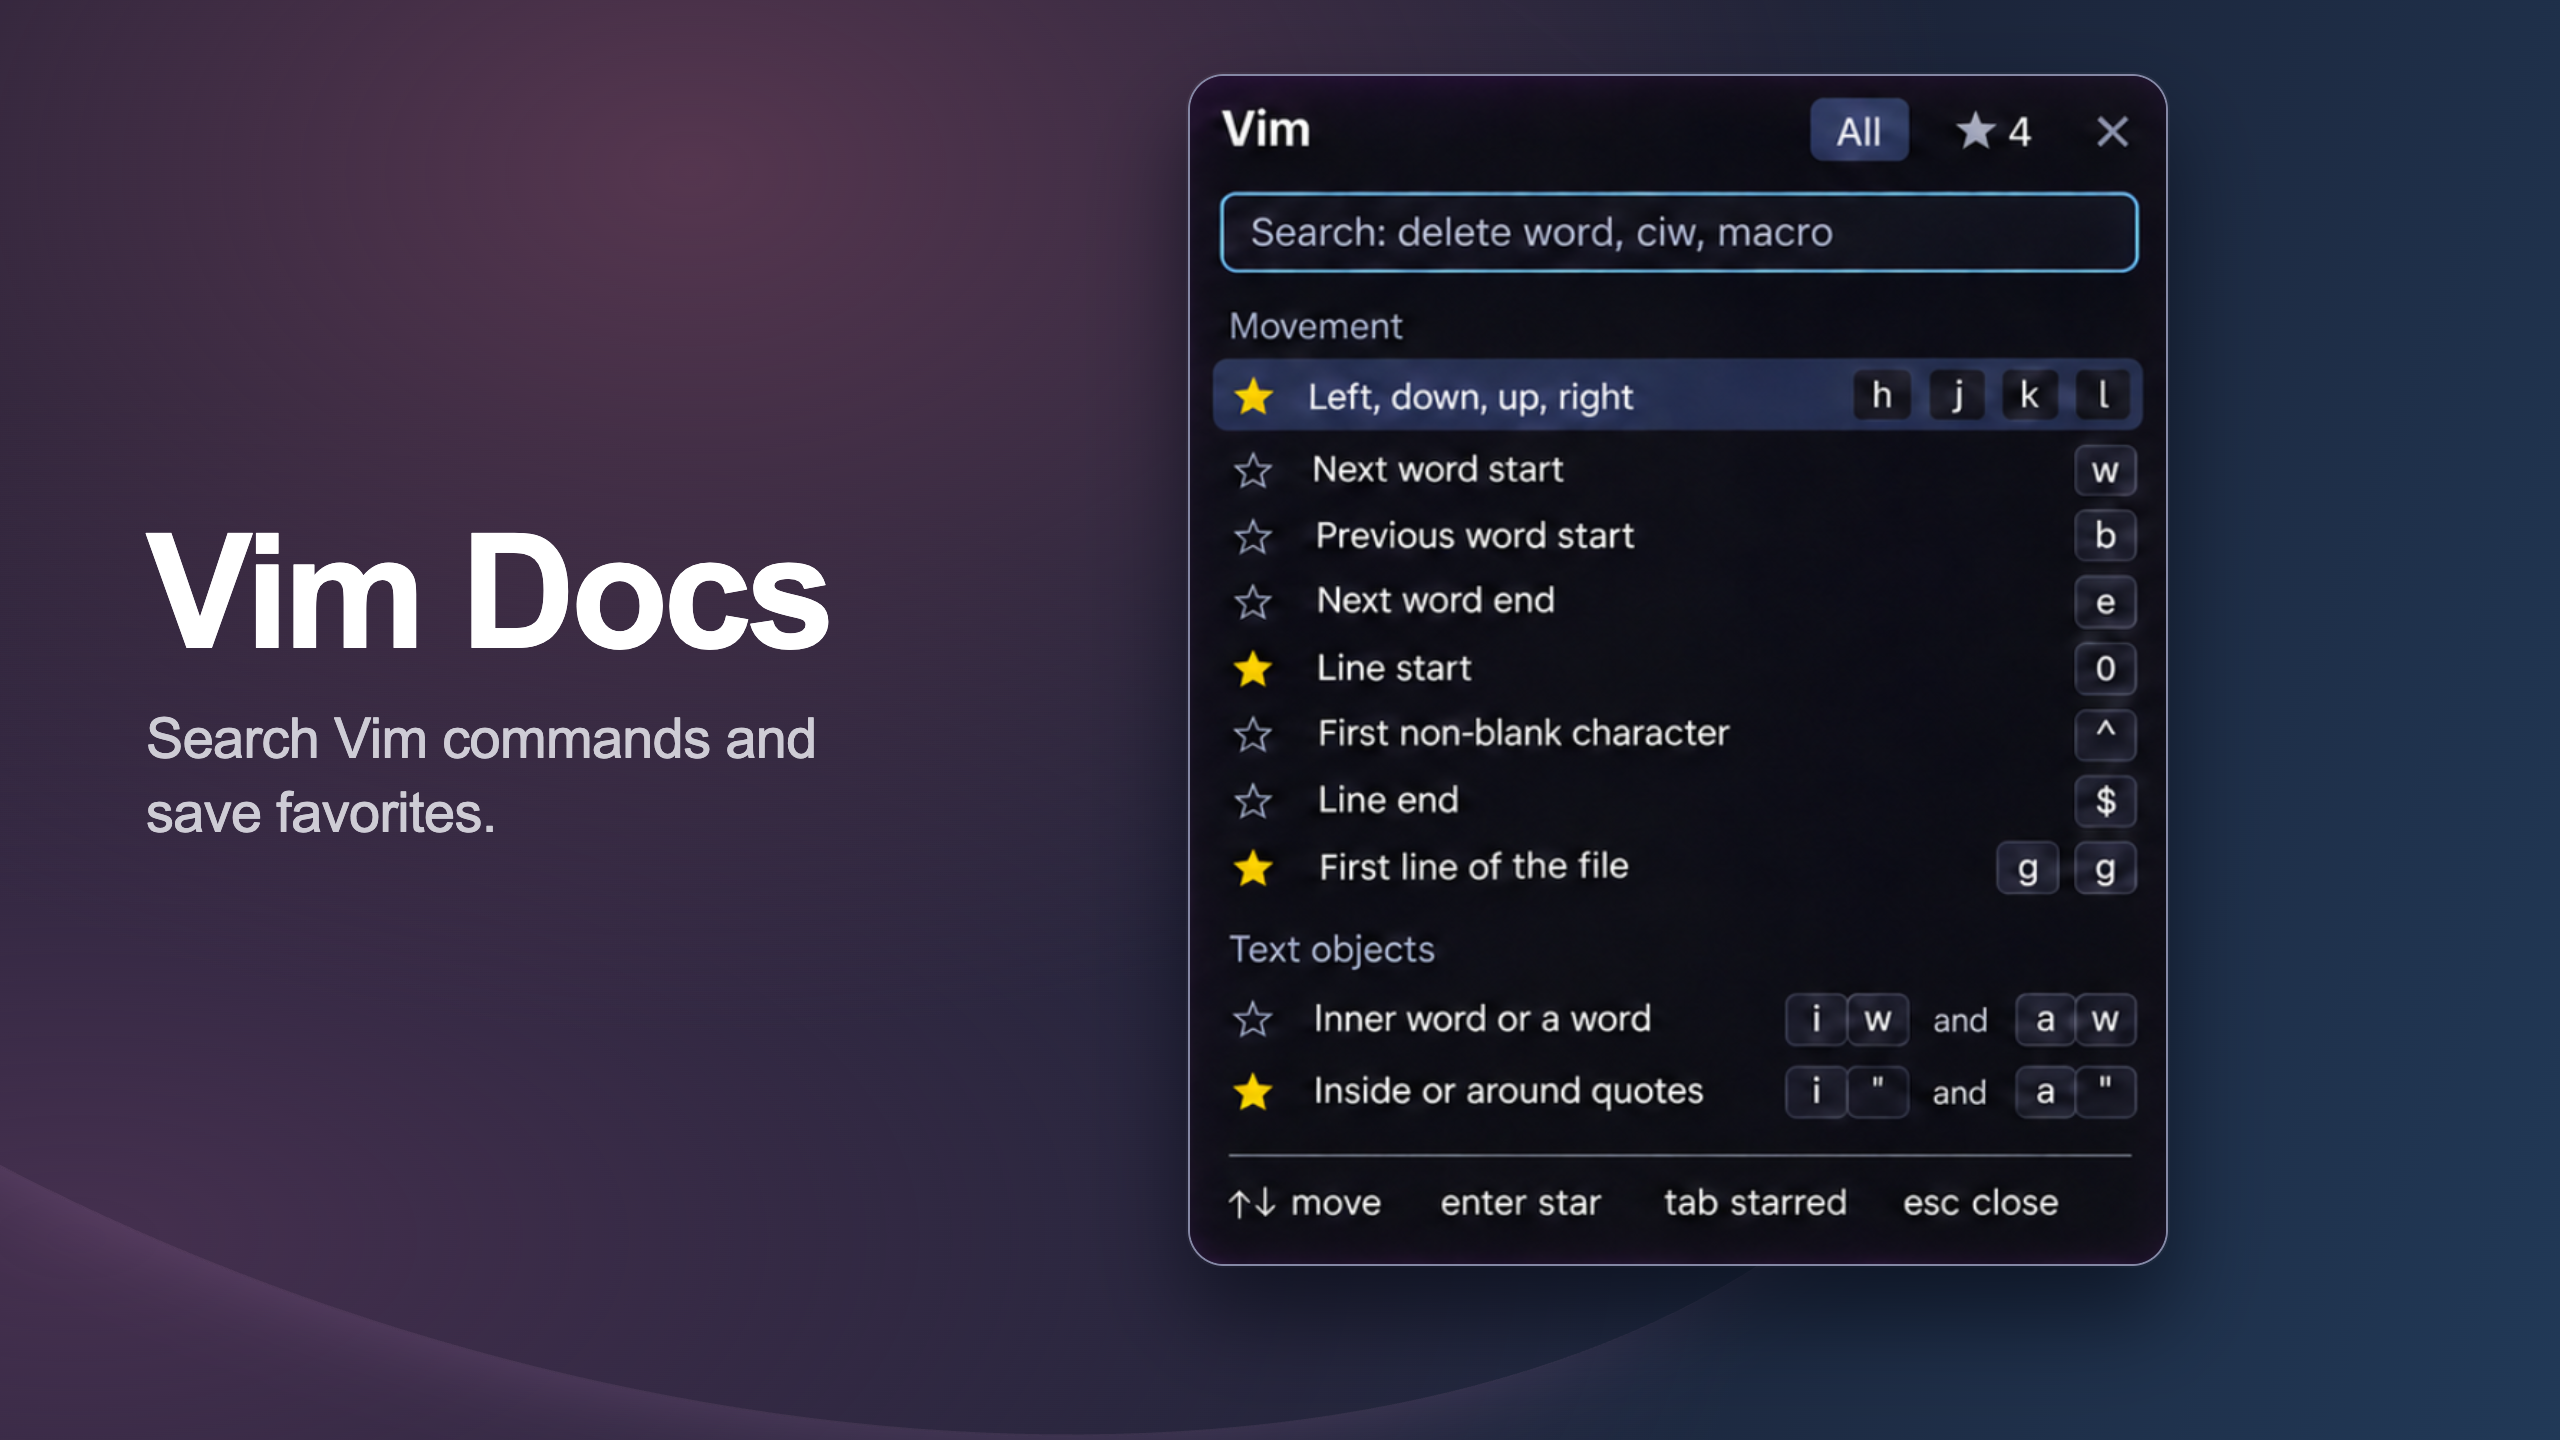
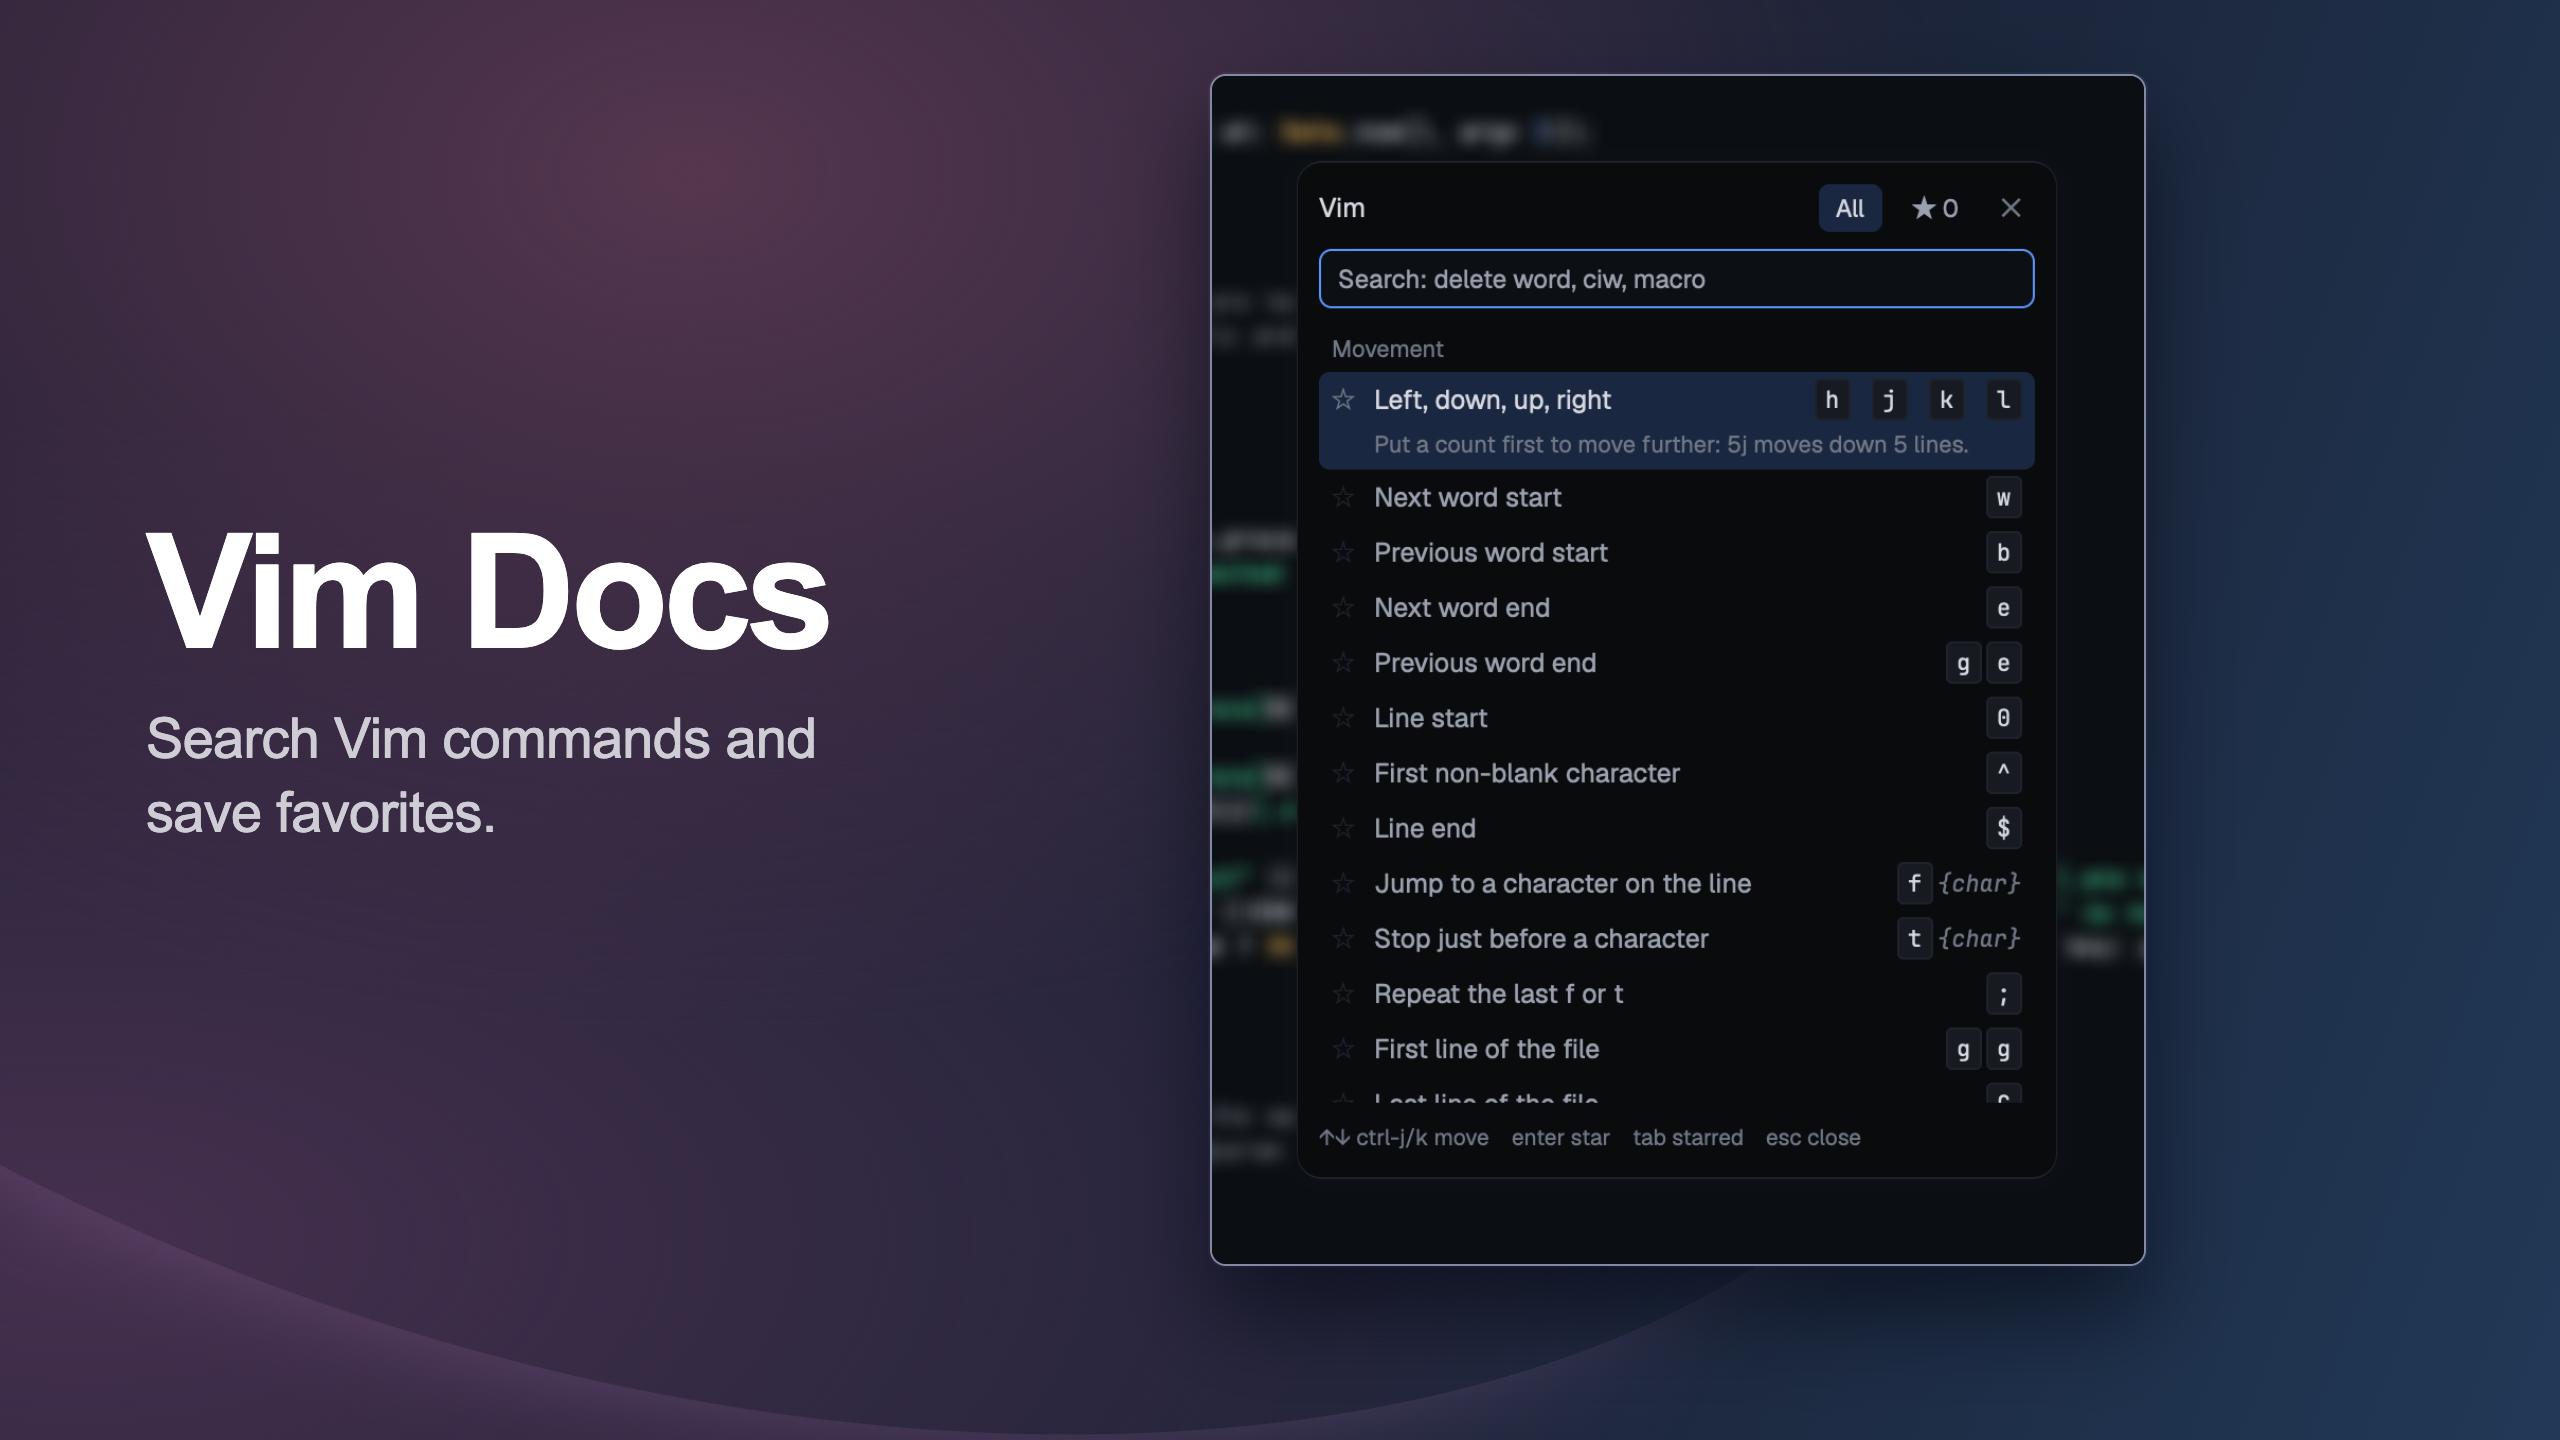
Use supplied Vim Docs screenshot with blurred surroundings

Changed region(s): [[0.4375, 0.0312, 0.8438, 0.875]]

diff --git a/gallery/INVENTORY.md b/gallery/INVENTORY.md
@@ -14,14 +14,14 @@ The supplied approved reference is preserved as `reference.jpg`. Branch and Git 
 | Portal | `portal/preview.png`, `portal/thumbnail.png` | Supplied Portal screenshot, showing favorites, filters, and listening processes with surrounding editor blurred |
 | Practice Range | None | Native initial setup |
 | Tutor | None | Native course setup. No course generated. |
-| Vim Docs | `vim-docs/preview.png`, `vim-docs/thumbnail.png` | UI crop from the old preview, showing commands and favorites |
+| Vim Docs | `vim-docs/preview.png`, `vim-docs/thumbnail.png` | Supplied Vim Docs screenshot, showing movement commands with surrounding editor blurred |
 | Tickets | None | Native empty board from `tickets-tourist-wip` |
 
 Every updated mod has a matching `preview.png` and `thumbnail.png` at 2560 × 1440. Existing tracked alternate thumbnail names also receive the new image. The six `islands-*` implementation mods are presented together as Islands. `kit` is shared source. `personal-sync/usage-limits` explicitly excludes itself from gallery submission.
 
 This branch is based on main. Tickets is present in the user's work branch, so only its gallery assets are added here. Its implementation stays on that work branch. Existing untracked thumbnail experiments in the original checkout are untouched.
 
-Two screenshots reuse the UI panels from the old images at commit `90949f0`. Jump, Run, Spotify, and Portal use the supplied screenshots with an 8 px background blur and the original dialog pixels preserved. Spotify is cropped to playback controls and the first playlist rows for legibility. Zen and Tourist use the supplied full editor and tour views without blur. Crop coordinates and blur settings are in `screenshot-crops.json`. Perspective is straightened by resampling the existing pixels. No UI is generated or redrawn. Outer promotional artwork and glowing frames are cropped away. Practice Range, Tutor, and Tickets have no older image in Git history, so their native captures remain unchanged. UI key legends and control icons remain inside the screenshots. No promotional branding, badges, icons, key callouts, or slogans were added.
+One screenshot reuses the UI panel from the old images at commit `90949f0`. Jump, Run, Spotify, Portal, and Vim Docs use the supplied screenshots with an 8 px background blur and the original dialog pixels preserved. Spotify is cropped to playback controls and the first playlist rows for legibility. Zen and Tourist use the supplied full editor and tour views without blur. Crop coordinates and blur settings are in `screenshot-crops.json`. Perspective is straightened by resampling the existing pixels. No UI is generated or redrawn. Outer promotional artwork and glowing frames are cropped away. Practice Range, Tutor, and Tickets have no older image in Git history, so their native captures remain unchanged. UI key legends and control icons remain inside the screenshots. No promotional branding, badges, icons, key callouts, or slogans were added.
 
 The shared composition is in `template.html`, designed at 1280 × 720 and exported at 2× resolution for sharp text on Retina displays. Titles, descriptions, prior assets, and screen states are in `mods.json`. To reproduce with Playwright and Chrome installed:
 
